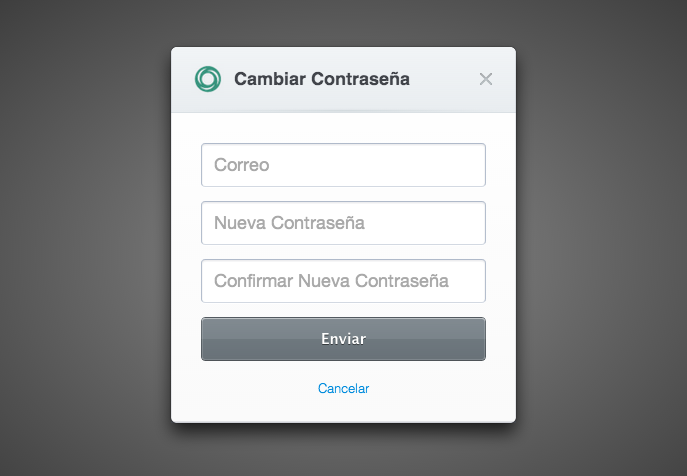
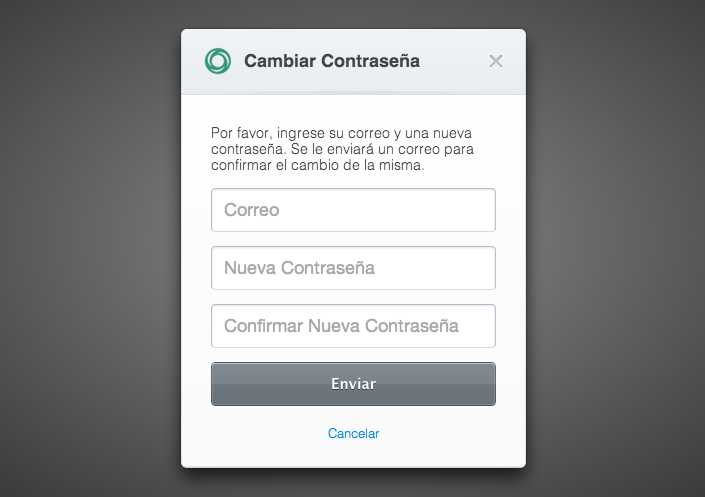
included samples for header and footer texts

Changed region(s): [[0.2445, 0.0588, 0.7642, 1.0]]

diff --git a/docs/login-widget.md b/docs/login-widget.md
@@ -71,6 +71,8 @@ Will display the following:
         icon: "https://myapp.com/logo.png",
         // ... other properties ... 
         signupTitle: "Registrarse",
+        signupHeaderText: "Por favor, ingrese su correo y contraseña",
+        signupFooterText: "Al hacer clic en \"Crear Usuario\", usted está aceptando nuestros términos y condiciones.",
         signupButtonText: "Crear Usuario",
         signupEmailPlaceholder: "Correo",
         signupPasswordPlaceholder: "Contraseña",
@@ -90,6 +92,7 @@ Will display the following:
         icon: "https://myapp.com/logo.png",
         // ... other properties ... 
         resetTitle: "Cambiar Contraseña",
+        resetHeaderText: "Por favor, ingrese su correo y una nueva contraseña. Se le enviará un correo para confirmar el cambio de la misma.",
         resetButtonText: "Enviar",
         resetEmailPlaceholder: "Correo",
         resetPasswordPlaceholder: "Nueva Contraseña",
